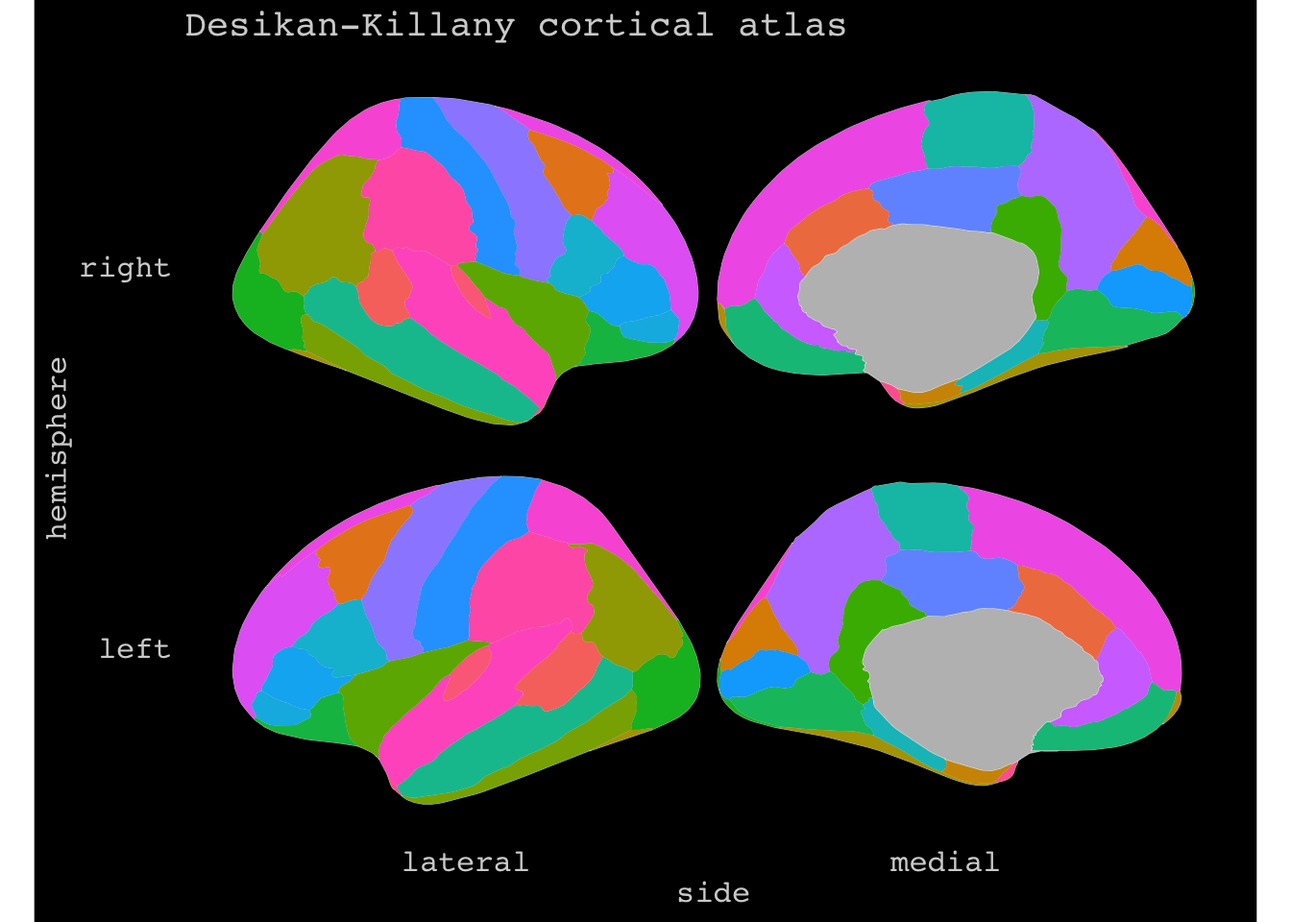
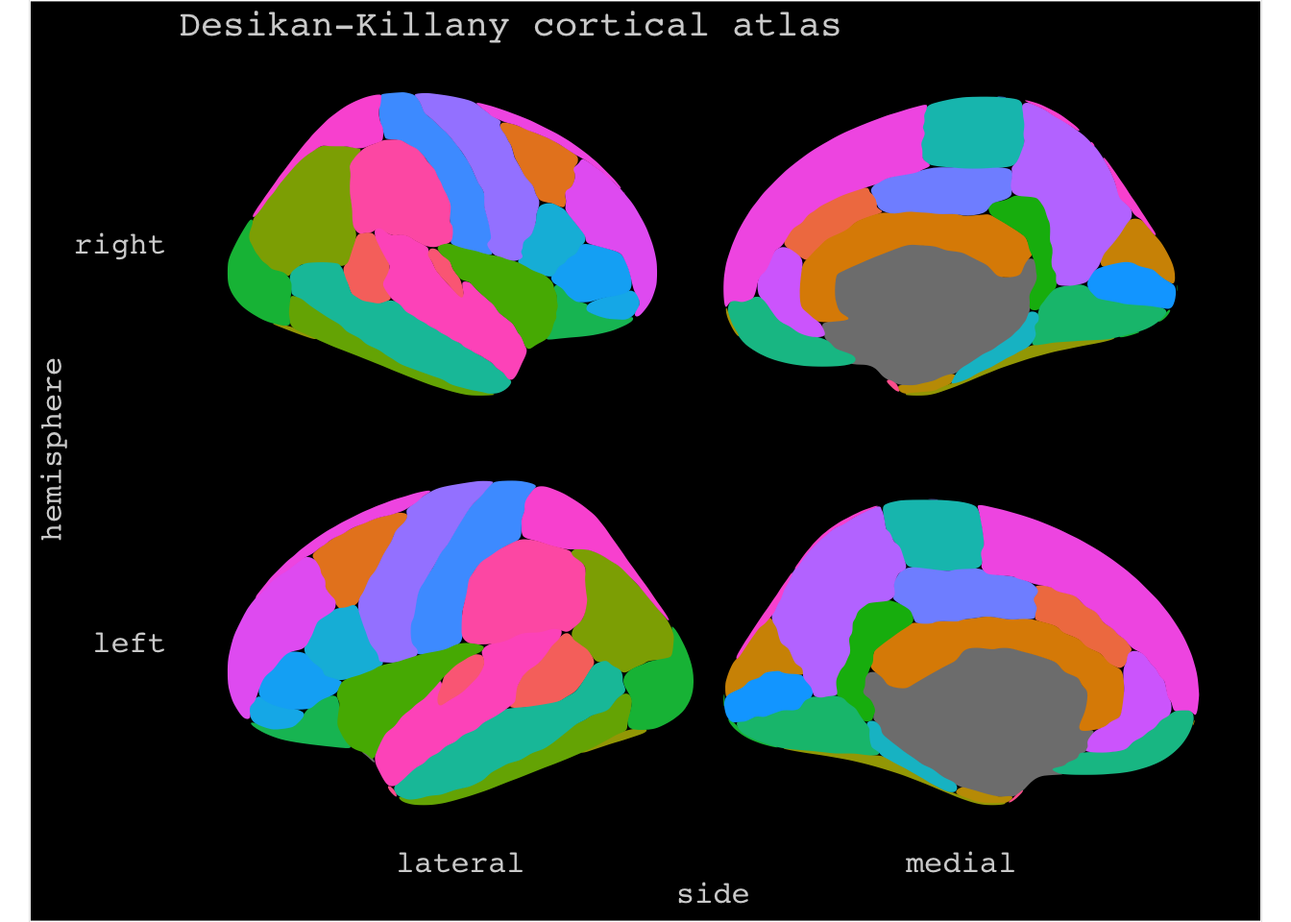
update ggseg posts with new arguments

diff --git a/content/blog/2018-08-24-introducing-the-ggseg-r-package-for-brain-segmentations.html b/content/blog/2018-08-24-introducing-the-ggseg-r-package-for-brain-segmentations.html
@@ -15,18 +15,27 @@ featured_image: '/blog/2018-08-24-introducing-the-ggseg-r-package-for-brain-segm
 
 
 <p><strong>Edit</strong>: Though posted only a week ago, we have discovered another R package called <code>ggBrain</code> which has slightly different functions than what our package has. Because of this, we have altered the name of our package to <code>ggseg</code> short for <code>ggsegmentation</code> which is a better description of what our package does.</p>
-<p>I’ve not written a post in a while. Mostly because of summer vacation, and also because I have been a little swamped at work. Fortunately, I got back to work with new gusto in August, and have something exciting to show you!</p>
-<p>A while a go, my co-worker Didac, approached me with an idea for creating the possibility to plot brain segmentations directly in R. I loved the idea, and went straight at it, though, overly complicated and the initial project I started is a little stalled.</p>
+<p>I’ve not written a post in a while. Mostly because of summer vacation, and also because I have been a little swamped at work.
+Fortunately, I got back to work with new gusto in August, and have something exciting to show you!</p>
+<p>A while a go, my co-worker Didac, approached me with an idea for creating the possibility to plot brain segmentations directly in R.
+I loved the idea, and went straight at it, though, overly complicated and the initial project I started is a little stalled.</p>
 <p>Before the summer, he showed me what he really intended, and it is brilliant! So, we worked a bit together, and have scambled together the first little package we have ever made.</p>
-<p>The <a href="https://github.com/LCBC-UiO/ggseg">ggseg</a> package is intended for those who need to easily plot results or overviews of segmentet data. In neuroimaging, we often run analyses that segment the brain into different areas, according to different types of classification atlases. We have, to begin with, focused on two atlases from the popular software <a href="https://surfer.nmr.mgh.harvard.edu/">Freesurfer</a>, the Desikan-Killany cortical atlas (dkt), and the subcortical segmentation atlas (aseg). These two segmentation atlases are automatically run on any structural T1-weighted MRI image run through Freesurfers <code>recon-all</code> command, and such is data many people have. It can give you, per MRI image, mean values of area and thickness for each region in the atlas, that you can use with your hearts delight for analyses.</p>
+<p>The <a href="https://github.com/LCBC-UiO/ggseg">ggseg</a> package is intended for those who need to easily plot results or overviews of segmentet data.
+In neuroimaging, we often run analyses that segment the brain into different regions, according to different types of classification atlases.
+We have, to begin with, focused on two atlases from the popular software <a href="https://surfer.nmr.mgh.harvard.edu/">Freesurfer</a>, the Desikan-Killany cortical atlas (dk), and the subcortical segmentation atlas (aseg).
+These two segmentation atlases are automatically run on any structural T1-weighted MRI image run through Freesurfers <code>recon-all</code> command, and such is data many people have.
+It can give you, per MRI image, mean values of region and thickness for each region in the atlas, that you can use with your hearts delight for analyses.</p>
 <p>But, once analysed, there is not particlarly easy way of plotting the results, and we couldn’t have that!</p>
 <p>So, after some laborious manual work in tracing the segments from the atlases into scalable vector graphics (svg), transforming it to GIS data, and then fortifying this in R for ggplot’ing, we finally have some good stuff.</p>
-<p>Now, this is the first time we are writing any type of package, or functions like this. I’m sure we can improve the code quite a lot, and we are <em>very</em> happy to receive any pull requests for improvements and to learn more. But for now, the functions work well, and we’d like to introduce it to you.</p>
-<p>This package is developed as part of our work in our lab <a href="www.oslobrains.no">The Center for Lifespan Changes in Brain and Cognition</a>, and is thus released on our lab-github. It is not a CRAN-package, but if we get some more assistance/experience we will considering releaseing it on CRAN at some point.</p>
+<p>Now, this is the first time we are writing any type of package, or functions like this. I’m sure we can improve the code quite a lot, and we are <em>very</em> happy to receive any pull requests for improvements and to learn more.
+But for now, the functions work well, and we’d like to introduce it to you.</p>
+<p>This package is developed as part of our work in our lab <a href="www.oslobrains.no">The Center for Lifespan Changes in Brain and Cognition</a>, and is thus released on our lab-github.
+It is not a CRAN-package, but if we get some more assistance/experience we will considering releaseing it on CRAN at some point.</p>
 <p>So, you can install this using devtools, and we recommend building the vignette also.</p>
 <pre class="r"><code>devtools::install_github(&quot;LCBC-UiO/ggseg&quot;, build_vignette=T)</code></pre>
 <p>Once installed, you can have a look through the vignette with <code>vignette(ggseg)</code>, but I’ll cover some basics here.</p>
-<p><code>ggseg</code> is made using <code>ggplot2</code>. Who doesn’t love ggplot. It is sleek and beautiful, and we wanted these plots to be compatible with ggplot functions, like <code>facet_wrap</code> and <code>theme</code>. Out-of-the box, calling ggseg directly will plot the dkt atlas.</p>
+<p><code>ggseg</code> is made using <code>ggplot2</code>. Who doesn’t love ggplot. It is sleek and beautiful, and we wanted these plots to be compatible with ggplot functions, like <code>facet_wrap</code> and <code>theme</code>.
+Out-of-the box, calling ggseg directly will plot the dk atlas.</p>
 <pre class="r"><code>library(tidyverse)
 library(ggseg)
 ggseg()</code></pre>
@@ -34,41 +43,50 @@ ggseg()</code></pre>
 <p>You can also choose to stack the hemispheres ontop of each other, if that works better for you.</p>
 <pre class="r"><code>ggseg(position=&quot;stacked&quot;)</code></pre>
 <p><img src="/blog/2018-08-24-introducing-the-ggseg-r-package-for-brain-segmentations_files/figure-html/unnamed-chunk-3-1.png" width="672" /></p>
-<p>Of course, this grey thing isn’t particularly fun to look at, so we can do some colourings. The atlases all have a variable called <code>area</code>, which will colour different sections in meaningful ways. You do this with ggplot <code>aes</code> mapping.</p>
-<pre class="r"><code>ggseg(mapping=aes(fill=area), position=&quot;stacked&quot;)</code></pre>
+<p>Of course, this grey thing isn’t particularly fun to look at, so we can do some colourings.
+The atlases all have a variable called <code>region</code>, which will colour different sections in meaningful ways.
+You do this with ggplot <code>aes</code> mapping.</p>
+<pre class="r"><code>ggseg(mapping=aes(fill=region), position=&quot;stacked&quot;)</code></pre>
 <p><img src="/blog/2018-08-24-introducing-the-ggseg-r-package-for-brain-segmentations_files/figure-html/unnamed-chunk-4-1.png" width="672" /></p>
 <p>But there are so many labels! We can’t fit them all for this atlas. We can turn them off!.</p>
-<pre class="r"><code>ggseg(mapping=aes(fill=area), position=&quot;stacked&quot;, show.legend = F) +
+<pre class="r"><code>ggseg(mapping=aes(fill=region), position=&quot;stacked&quot;, show.legend = F) +
   ggtitle(&quot;Desikan-Killany cortical atlas&quot;)</code></pre>
 <p><img src="/blog/2018-08-24-introducing-the-ggseg-r-package-for-brain-segmentations_files/figure-html/featured-1.png" width="672" /></p>
 <p>The package currently has three atlases available. The default Desikan-Killany cortical atlas as shown above, and the Automatic subcortical segmentation (aseg), and the Yeo 2011 7 resting-state networks.</p>
-<pre class="r"><code>ggseg(atlas=&quot;aseg&quot;,mapping=aes(fill=area)) +
+<pre class="r"><code>ggseg(atlas=aseg,mapping=aes(fill=region)) +
   ggtitle(&quot;Automatic subcortical segmentation&quot;)</code></pre>
 <p><img src="/blog/2018-08-24-introducing-the-ggseg-r-package-for-brain-segmentations_files/figure-html/unnamed-chunk-5-1.png" width="672" /></p>
-<pre class="r"><code>ggseg(atlas=&quot;yeo7&quot;,position=&quot;stacked&quot;,mapping=aes(fill=area),) +
+<pre class="r"><code># remotes::install_github(&quot;LCBC-UiO/ggsegYeo2011&quot;)
+library(ggsegYeo2011)
+ggseg(atlas=yeo7, position=&quot;stacked&quot;, mapping=aes(fill=region),) +
   ggtitle(&quot;Yeo 7 resting-state networks&quot;)</code></pre>
 <p><img src="/blog/2018-08-24-introducing-the-ggseg-r-package-for-brain-segmentations_files/figure-html/unnamed-chunk-5-2.png" width="672" /></p>
-<p>We are working on adding the Yeo 2011 17 resting-state networks, in addition to a sagittal view of the aseg atlas. We work on that when we need other more “relaxing” tasks than responding to reviewers every whims.</p>
-<p>Since this is a ggplot-based function, there are lots of ways you can manipulate how it looks. For instance by using different themes. The package comes with three themes: <code>theme_brain</code>, <code>theme_darkbrain</code>, and <code>theme_custombrain</code>, the latter is really just a simple convenience theme for those who don’t want to or know how to customize simple things like the plot background and text colour.</p>
-<pre class="r"><code>ggseg(mapping=aes(fill=area), position=&quot;stacked&quot;,show.legend = F) +
+<p>We are working on adding the Yeo 2011 17 resting-state networks, in addition to a sagittal view of the aseg atlas.
+We work on that when we need other more “relaxing” tasks than responding to reviewers every whims.</p>
+<p>Since this is a ggplot-based function, there are lots of ways you can manipulate how it looks.
+For instance by using different themes. The package comes with three themes:
+<code>theme_brain</code>, <code>theme_darkbrain</code>, and <code>theme_custombrain</code>, the latter is really just a simple convenience theme for those who don’t want to or know how to customize simple things like the plot background and text colour.</p>
+<pre class="r"><code>ggseg(mapping=aes(fill=region), position=&quot;stacked&quot;,show.legend = F) +
   ggtitle(&quot;Desikan-Killany cortical atlas&quot;) +
   theme_darkbrain()</code></pre>
 <p><img src="/blog/2018-08-24-introducing-the-ggseg-r-package-for-brain-segmentations_files/figure-html/unnamed-chunk-6-1.png" width="672" /></p>
 <p>There are several extra options you can add, like increasing the size of the contouring line and its colour</p>
-<pre class="r"><code>ggseg(mapping=aes(fill=area), position=&quot;stacked&quot;,
+<pre class="r"><code>ggseg(mapping=aes(fill=region), position=&quot;stacked&quot;,
         colour=&quot;black&quot;,size=.8,show.legend = F) +
   ggtitle(&quot;Desikan-Killany cortical atlas&quot;)</code></pre>
 <p><img src="/blog/2018-08-24-introducing-the-ggseg-r-package-for-brain-segmentations_files/figure-html/unnamed-chunk-7-1.png" width="672" /></p>
-<p>wowsa, that’s a bit too many labels. But It helps you get oriented. Now, in most cases, we think people will use this to plot some results. Like p-values, or estimated means. To do this, you can provide the function with some data. Importantly, the data must include some variables that will match the data to the atlas data.frame for merging.</p>
-<p>Lets for instance say you have found that the thickness of the insula and superior frontal cortex increase with age, and you want to plot the estimated means highlighting those two areas only.</p>
-<pre class="r"><code>results = data.frame(cbind(area=c(&quot;superior frontal&quot;,&quot;insula&quot;),em=c(2.4,3.3)),
+<p>wowsa, that’s a bit too many labels. But It helps you get oriented.
+Now, in most cases, we think people will use this to plot some results. Like p-values, or estimated means.
+To do this, you can provide the function with some data. Importantly, the data must include some variables that will match the data to the atlas data.frame for merging.</p>
+<p>Lets for instance say you have found that the thickness of the insula and superior frontal cortex increase with age, and you want to plot the estimated means highlighting those two regions only.</p>
+<pre class="r"><code>results = data.frame(cbind(region=c(&quot;superior frontal&quot;,&quot;insula&quot;),em=c(2.4,3.3)),
                      stringsAsFactors=F)
 
 results %&gt;% 
   ggseg(mapping=aes(fill=as.numeric(em)), position=&quot;stacked&quot;) </code></pre>
 <p><img src="/blog/2018-08-24-introducing-the-ggseg-r-package-for-brain-segmentations_files/figure-html/unnamed-chunk-8-1.png" width="672" /></p>
 <p>Neat-o. But maybe the results only pertained to the right insula, and left superior frontal? Just add a <code>hemi</code> variable indicating which hemisphere the results belong to.</p>
-<pre class="r"><code>results = data.frame(cbind(area=c(&quot;superior frontal&quot;,&quot;insula&quot;),
+<pre class="r"><code>results = data.frame(cbind(region=c(&quot;superior frontal&quot;,&quot;insula&quot;),
                            em=c(2.4,3.3),
                            hemi=c(&quot;left&quot;,&quot;right&quot;)),
                      stringsAsFactors=F)
@@ -77,14 +95,17 @@ results %&gt;%
   ggseg(mapping=aes(fill=as.numeric(em)), position=&quot;stacked&quot;) </code></pre>
 <p><img src="/blog/2018-08-24-introducing-the-ggseg-r-package-for-brain-segmentations_files/figure-html/unnamed-chunk-9-1.png" width="672" /></p>
 <p>If you keep your data in tall/long format, as ggplot likes it, you can also plot results from different groups using facets.</p>
-<pre class="r"><code>results = data.frame(cbind(area=c(&quot;superior frontal&quot;,&quot;insula&quot;, &quot;par orbitalis&quot;,&quot;pre central&quot;),
-                           em=c(2.4,3.3,1.2,2.6),
-                           hemi=c(&quot;left&quot;,&quot;right&quot;,&quot;right&quot;,&quot;right&quot;),
-                           AgeGroup = c(rep(&quot;Young&quot;,2),rep(&quot;Old&quot;,2))),
-                     stringsAsFactors=F)
+<pre class="r"><code>results = data.frame(region=c(&quot;superior frontal&quot;,&quot;insula&quot;, &quot;pars orbitalis&quot;,&quot;precentral&quot;),
+                     em=c(2.4,3.3,1.2,2.6),
+                     hemi=c(&quot;left&quot;,&quot;right&quot;,&quot;right&quot;,&quot;right&quot;),
+                     AgeGroup = c(rep(&quot;Young&quot;,2),rep(&quot;Old&quot;,2)),
+                     stringsAsFactors=F) %&gt;% 
+  group_by(AgeGroup)
 
 results %&gt;% 
-  ggseg(mapping=aes(fill=as.numeric(em)), position=&quot;stacked&quot;) +
+  ggseg(mapping=aes(fill=as.numeric(em)), position=&quot;stacked&quot;, colour=&quot;black&quot;) +
   facet_wrap(~AgeGroup,ncol=1)</code></pre>
 <p><img src="/blog/2018-08-24-introducing-the-ggseg-r-package-for-brain-segmentations_files/figure-html/unnamed-chunk-10-1.png" width="672" /></p>
-<p>That’s all for now. Or, there are more options, but that’s what I’ll be going through today. As mentioned, we are very new at making packages, and I’m sure there are many ways to make this package more efficient. Drop us a line or pull request if you feel like contributing!</p>
+<p>That’s all for now. Or, there are more options, but that’s what I’ll be going through today.
+As mentioned, we are very new at making packages, and I’m sure there are many ways to make this package more efficient.
+Drop us a line or pull request if you feel like contributing!</p>

diff --git a/public/blog/introducing-the-ggseg-r-package-for-brain-segmentations/index.html b/public/blog/introducing-the-ggseg-r-package-for-brain-segmentations/index.html
@@ -203,18 +203,27 @@ ga('send', 'pageview');
 
 
 <p><strong>Edit</strong>: Though posted only a week ago, we have discovered another R package called <code>ggBrain</code> which has slightly different functions than what our package has. Because of this, we have altered the name of our package to <code>ggseg</code> short for <code>ggsegmentation</code> which is a better description of what our package does.</p>
-<p>I’ve not written a post in a while. Mostly because of summer vacation, and also because I have been a little swamped at work. Fortunately, I got back to work with new gusto in August, and have something exciting to show you!</p>
-<p>A while a go, my co-worker Didac, approached me with an idea for creating the possibility to plot brain segmentations directly in R. I loved the idea, and went straight at it, though, overly complicated and the initial project I started is a little stalled.</p>
+<p>I’ve not written a post in a while. Mostly because of summer vacation, and also because I have been a little swamped at work.
+Fortunately, I got back to work with new gusto in August, and have something exciting to show you!</p>
+<p>A while a go, my co-worker Didac, approached me with an idea for creating the possibility to plot brain segmentations directly in R.
+I loved the idea, and went straight at it, though, overly complicated and the initial project I started is a little stalled.</p>
 <p>Before the summer, he showed me what he really intended, and it is brilliant! So, we worked a bit together, and have scambled together the first little package we have ever made.</p>
-<p>The <a href="https://github.com/LCBC-UiO/ggseg">ggseg</a> package is intended for those who need to easily plot results or overviews of segmentet data. In neuroimaging, we often run analyses that segment the brain into different areas, according to different types of classification atlases. We have, to begin with, focused on two atlases from the popular software <a href="https://surfer.nmr.mgh.harvard.edu/">Freesurfer</a>, the Desikan-Killany cortical atlas (dkt), and the subcortical segmentation atlas (aseg). These two segmentation atlases are automatically run on any structural T1-weighted MRI image run through Freesurfers <code>recon-all</code> command, and such is data many people have. It can give you, per MRI image, mean values of area and thickness for each region in the atlas, that you can use with your hearts delight for analyses.</p>
+<p>The <a href="https://github.com/LCBC-UiO/ggseg">ggseg</a> package is intended for those who need to easily plot results or overviews of segmentet data.
+In neuroimaging, we often run analyses that segment the brain into different regions, according to different types of classification atlases.
+We have, to begin with, focused on two atlases from the popular software <a href="https://surfer.nmr.mgh.harvard.edu/">Freesurfer</a>, the Desikan-Killany cortical atlas (dk), and the subcortical segmentation atlas (aseg).
+These two segmentation atlases are automatically run on any structural T1-weighted MRI image run through Freesurfers <code>recon-all</code> command, and such is data many people have.
+It can give you, per MRI image, mean values of region and thickness for each region in the atlas, that you can use with your hearts delight for analyses.</p>
 <p>But, once analysed, there is not particlarly easy way of plotting the results, and we couldn’t have that!</p>
 <p>So, after some laborious manual work in tracing the segments from the atlases into scalable vector graphics (svg), transforming it to GIS data, and then fortifying this in R for ggplot’ing, we finally have some good stuff.</p>
-<p>Now, this is the first time we are writing any type of package, or functions like this. I’m sure we can improve the code quite a lot, and we are <em>very</em> happy to receive any pull requests for improvements and to learn more. But for now, the functions work well, and we’d like to introduce it to you.</p>
-<p>This package is developed as part of our work in our lab <a href="www.oslobrains.no">The Center for Lifespan Changes in Brain and Cognition</a>, and is thus released on our lab-github. It is not a CRAN-package, but if we get some more assistance/experience we will considering releaseing it on CRAN at some point.</p>
+<p>Now, this is the first time we are writing any type of package, or functions like this. I’m sure we can improve the code quite a lot, and we are <em>very</em> happy to receive any pull requests for improvements and to learn more.
+But for now, the functions work well, and we’d like to introduce it to you.</p>
+<p>This package is developed as part of our work in our lab <a href="www.oslobrains.no">The Center for Lifespan Changes in Brain and Cognition</a>, and is thus released on our lab-github.
+It is not a CRAN-package, but if we get some more assistance/experience we will considering releaseing it on CRAN at some point.</p>
 <p>So, you can install this using devtools, and we recommend building the vignette also.</p>
 <pre class="r"><code>devtools::install_github(&quot;LCBC-UiO/ggseg&quot;, build_vignette=T)</code></pre>
 <p>Once installed, you can have a look through the vignette with <code>vignette(ggseg)</code>, but I’ll cover some basics here.</p>
-<p><code>ggseg</code> is made using <code>ggplot2</code>. Who doesn’t love ggplot. It is sleek and beautiful, and we wanted these plots to be compatible with ggplot functions, like <code>facet_wrap</code> and <code>theme</code>. Out-of-the box, calling ggseg directly will plot the dkt atlas.</p>
+<p><code>ggseg</code> is made using <code>ggplot2</code>. Who doesn’t love ggplot. It is sleek and beautiful, and we wanted these plots to be compatible with ggplot functions, like <code>facet_wrap</code> and <code>theme</code>.
+Out-of-the box, calling ggseg directly will plot the dk atlas.</p>
 <pre class="r"><code>library(tidyverse)
 library(ggseg)
 ggseg()</code></pre>
@@ -222,41 +231,50 @@ ggseg()</code></pre>
 <p>You can also choose to stack the hemispheres ontop of each other, if that works better for you.</p>
 <pre class="r"><code>ggseg(position=&quot;stacked&quot;)</code></pre>
 <p><img src="/blog/2018-08-24-introducing-the-ggseg-r-package-for-brain-segmentations_files/figure-html/unnamed-chunk-3-1.png" width="672" /></p>
-<p>Of course, this grey thing isn’t particularly fun to look at, so we can do some colourings. The atlases all have a variable called <code>area</code>, which will colour different sections in meaningful ways. You do this with ggplot <code>aes</code> mapping.</p>
-<pre class="r"><code>ggseg(mapping=aes(fill=area), position=&quot;stacked&quot;)</code></pre>
+<p>Of course, this grey thing isn’t particularly fun to look at, so we can do some colourings.
+The atlases all have a variable called <code>region</code>, which will colour different sections in meaningful ways.
+You do this with ggplot <code>aes</code> mapping.</p>
+<pre class="r"><code>ggseg(mapping=aes(fill=region), position=&quot;stacked&quot;)</code></pre>
 <p><img src="/blog/2018-08-24-introducing-the-ggseg-r-package-for-brain-segmentations_files/figure-html/unnamed-chunk-4-1.png" width="672" /></p>
 <p>But there are so many labels! We can’t fit them all for this atlas. We can turn them off!.</p>
-<pre class="r"><code>ggseg(mapping=aes(fill=area), position=&quot;stacked&quot;, show.legend = F) +
+<pre class="r"><code>ggseg(mapping=aes(fill=region), position=&quot;stacked&quot;, show.legend = F) +
   ggtitle(&quot;Desikan-Killany cortical atlas&quot;)</code></pre>
 <p><img src="/blog/2018-08-24-introducing-the-ggseg-r-package-for-brain-segmentations_files/figure-html/featured-1.png" width="672" /></p>
 <p>The package currently has three atlases available. The default Desikan-Killany cortical atlas as shown above, and the Automatic subcortical segmentation (aseg), and the Yeo 2011 7 resting-state networks.</p>
-<pre class="r"><code>ggseg(atlas=&quot;aseg&quot;,mapping=aes(fill=area)) +
+<pre class="r"><code>ggseg(atlas=aseg,mapping=aes(fill=region)) +
   ggtitle(&quot;Automatic subcortical segmentation&quot;)</code></pre>
 <p><img src="/blog/2018-08-24-introducing-the-ggseg-r-package-for-brain-segmentations_files/figure-html/unnamed-chunk-5-1.png" width="672" /></p>
-<pre class="r"><code>ggseg(atlas=&quot;yeo7&quot;,position=&quot;stacked&quot;,mapping=aes(fill=area),) +
+<pre class="r"><code># remotes::install_github(&quot;LCBC-UiO/ggsegYeo2011&quot;)
+library(ggsegYeo2011)
+ggseg(atlas=yeo7, position=&quot;stacked&quot;, mapping=aes(fill=region),) +
   ggtitle(&quot;Yeo 7 resting-state networks&quot;)</code></pre>
 <p><img src="/blog/2018-08-24-introducing-the-ggseg-r-package-for-brain-segmentations_files/figure-html/unnamed-chunk-5-2.png" width="672" /></p>
-<p>We are working on adding the Yeo 2011 17 resting-state networks, in addition to a sagittal view of the aseg atlas. We work on that when we need other more “relaxing” tasks than responding to reviewers every whims.</p>
-<p>Since this is a ggplot-based function, there are lots of ways you can manipulate how it looks. For instance by using different themes. The package comes with three themes: <code>theme_brain</code>, <code>theme_darkbrain</code>, and <code>theme_custombrain</code>, the latter is really just a simple convenience theme for those who don’t want to or know how to customize simple things like the plot background and text colour.</p>
-<pre class="r"><code>ggseg(mapping=aes(fill=area), position=&quot;stacked&quot;,show.legend = F) +
+<p>We are working on adding the Yeo 2011 17 resting-state networks, in addition to a sagittal view of the aseg atlas.
+We work on that when we need other more “relaxing” tasks than responding to reviewers every whims.</p>
+<p>Since this is a ggplot-based function, there are lots of ways you can manipulate how it looks.
+For instance by using different themes. The package comes with three themes:
+<code>theme_brain</code>, <code>theme_darkbrain</code>, and <code>theme_custombrain</code>, the latter is really just a simple convenience theme for those who don’t want to or know how to customize simple things like the plot background and text colour.</p>
+<pre class="r"><code>ggseg(mapping=aes(fill=region), position=&quot;stacked&quot;,show.legend = F) +
   ggtitle(&quot;Desikan-Killany cortical atlas&quot;) +
   theme_darkbrain()</code></pre>
 <p><img src="/blog/2018-08-24-introducing-the-ggseg-r-package-for-brain-segmentations_files/figure-html/unnamed-chunk-6-1.png" width="672" /></p>
 <p>There are several extra options you can add, like increasing the size of the contouring line and its colour</p>
-<pre class="r"><code>ggseg(mapping=aes(fill=area), position=&quot;stacked&quot;,
+<pre class="r"><code>ggseg(mapping=aes(fill=region), position=&quot;stacked&quot;,
         colour=&quot;black&quot;,size=.8,show.legend = F) +
   ggtitle(&quot;Desikan-Killany cortical atlas&quot;)</code></pre>
 <p><img src="/blog/2018-08-24-introducing-the-ggseg-r-package-for-brain-segmentations_files/figure-html/unnamed-chunk-7-1.png" width="672" /></p>
-<p>wowsa, that’s a bit too many labels. But It helps you get oriented. Now, in most cases, we think people will use this to plot some results. Like p-values, or estimated means. To do this, you can provide the function with some data. Importantly, the data must include some variables that will match the data to the atlas data.frame for merging.</p>
-<p>Lets for instance say you have found that the thickness of the insula and superior frontal cortex increase with age, and you want to plot the estimated means highlighting those two areas only.</p>
-<pre class="r"><code>results = data.frame(cbind(area=c(&quot;superior frontal&quot;,&quot;insula&quot;),em=c(2.4,3.3)),
+<p>wowsa, that’s a bit too many labels. But It helps you get oriented.
+Now, in most cases, we think people will use this to plot some results. Like p-values, or estimated means.
+To do this, you can provide the function with some data. Importantly, the data must include some variables that will match the data to the atlas data.frame for merging.</p>
+<p>Lets for instance say you have found that the thickness of the insula and superior frontal cortex increase with age, and you want to plot the estimated means highlighting those two regions only.</p>
+<pre class="r"><code>results = data.frame(cbind(region=c(&quot;superior frontal&quot;,&quot;insula&quot;),em=c(2.4,3.3)),
                      stringsAsFactors=F)
 
 results %&gt;% 
   ggseg(mapping=aes(fill=as.numeric(em)), position=&quot;stacked&quot;) </code></pre>
 <p><img src="/blog/2018-08-24-introducing-the-ggseg-r-package-for-brain-segmentations_files/figure-html/unnamed-chunk-8-1.png" width="672" /></p>
 <p>Neat-o. But maybe the results only pertained to the right insula, and left superior frontal? Just add a <code>hemi</code> variable indicating which hemisphere the results belong to.</p>
-<pre class="r"><code>results = data.frame(cbind(area=c(&quot;superior frontal&quot;,&quot;insula&quot;),
+<pre class="r"><code>results = data.frame(cbind(region=c(&quot;superior frontal&quot;,&quot;insula&quot;),
                            em=c(2.4,3.3),
                            hemi=c(&quot;left&quot;,&quot;right&quot;)),
                      stringsAsFactors=F)
@@ -265,17 +283,20 @@ results %&gt;%
   ggseg(mapping=aes(fill=as.numeric(em)), position=&quot;stacked&quot;) </code></pre>
 <p><img src="/blog/2018-08-24-introducing-the-ggseg-r-package-for-brain-segmentations_files/figure-html/unnamed-chunk-9-1.png" width="672" /></p>
 <p>If you keep your data in tall/long format, as ggplot likes it, you can also plot results from different groups using facets.</p>
-<pre class="r"><code>results = data.frame(cbind(area=c(&quot;superior frontal&quot;,&quot;insula&quot;, &quot;par orbitalis&quot;,&quot;pre central&quot;),
-                           em=c(2.4,3.3,1.2,2.6),
-                           hemi=c(&quot;left&quot;,&quot;right&quot;,&quot;right&quot;,&quot;right&quot;),
-                           AgeGroup = c(rep(&quot;Young&quot;,2),rep(&quot;Old&quot;,2))),
-                     stringsAsFactors=F)
+<pre class="r"><code>results = data.frame(region=c(&quot;superior frontal&quot;,&quot;insula&quot;, &quot;pars orbitalis&quot;,&quot;precentral&quot;),
+                     em=c(2.4,3.3,1.2,2.6),
+                     hemi=c(&quot;left&quot;,&quot;right&quot;,&quot;right&quot;,&quot;right&quot;),
+                     AgeGroup = c(rep(&quot;Young&quot;,2),rep(&quot;Old&quot;,2)),
+                     stringsAsFactors=F) %&gt;% 
+  group_by(AgeGroup)
 
 results %&gt;% 
-  ggseg(mapping=aes(fill=as.numeric(em)), position=&quot;stacked&quot;) +
+  ggseg(mapping=aes(fill=as.numeric(em)), position=&quot;stacked&quot;, colour=&quot;black&quot;) +
   facet_wrap(~AgeGroup,ncol=1)</code></pre>
 <p><img src="/blog/2018-08-24-introducing-the-ggseg-r-package-for-brain-segmentations_files/figure-html/unnamed-chunk-10-1.png" width="672" /></p>
-<p>That’s all for now. Or, there are more options, but that’s what I’ll be going through today. As mentioned, we are very new at making packages, and I’m sure there are many ways to make this package more efficient. Drop us a line or pull request if you feel like contributing!</p>
+<p>That’s all for now. Or, there are more options, but that’s what I’ll be going through today.
+As mentioned, we are very new at making packages, and I’m sure there are many ways to make this package more efficient.
+Drop us a line or pull request if you feel like contributing!</p>
 
     </div>
     

diff --git a/content/blog/2018-10-01-get-the-brain-animated.html b/content/blog/2018-10-01-get-the-brain-animated.html
@@ -17,27 +17,29 @@ featured_image: '/blog/2018-10-01-get-the-brain-animated_files/figure-html/featu
 <p>In all of this, I learned so much about creating packages, and ended up making quite a major alteration to the base-functions of the package. I had not completely understood the use and the ellipsis (<code>...</code>) and as such had not used it correctly. Once I started understanding it, we could make the package working closer to what a standard ggplot package would work!</p>
 <p>The package vignettes are update on the new usage, which mainly affects how you may supply data for facetting. Just have a look at <code>vignette(&quot;ggseg&quot;)</code> and <code>vignette(&quot;externalData&quot;)</code> for a more up-to-date understanding of how the data should look.</p>
 <p>And this post will use the technique necessary for facetting, just for making animations with the <a href="https://github.com/thomasp85/gganimate">gganimate</a> package instead. This package is so clever, and I am in complete awe of Thomas’ brilliance in making it. Especially the new development version, which has altered the way to use the package that falls completely in-line with the rest of the ggplot-idea.</p>
-<p>Let’s fabricate some data to work with. I want to plot the Desikan-Killany atlas, with information for mean values of thickness across different ages. Since I’m completely making all this data up, I’ll just start with the <code>dkt</code> data.frame that comes with the package, grabs its unique instances of area and hemisphere (which gives me every area in the dkt atlas), and start making up some cortical thickness values per age.</p>
+<p>Let’s fabricate some data to work with. I want to plot the Desikan-Killany atlas, with information for mean values of thickness across different ages. Since I’m completely making all this data up, I’ll just start with the <code>dk</code> data.frame that comes with the package, grabs its unique instances of region and hemisphere (which gives me every region in the dk atlas), and start making up some cortical thickness values per age.</p>
 <p>Grab the unique polygons</p>
-<pre class="r"><code>base_atlas = dkt %&gt;% 
-  select(area,hemi) %&gt;% 
+<pre class="r"><code>base_atlas = dk %&gt;% 
+  select(region, hemi) %&gt;% 
   distinct() %&gt;% 
   na.omit()
 
 base_atlas %&gt;% head(5)</code></pre>
-<pre><code>##                     area hemi
-## 1      superior temporal left
-## 2            pre central left
-## 3           post central left
-## 4 rostral middle frontal left
-## 5                 insula left</code></pre>
+<pre><code>## # A tibble: 5 x 2
+##   region                hemi 
+##   &lt;chr&gt;                 &lt;chr&gt;
+## 1 bankssts              left 
+## 2 caudal middle frontal left 
+## 3 fusiform              left 
+## 4 inferior parietal     left 
+## 5 inferior temporal     left</code></pre>
 <p>Make up some cortical thickness values given an age</p>
 <pre class="r"><code>new_data = base_atlas %&gt;% 
   mutate(Age=7,
          thickness = sample(seq(4,5,by=.001), nrow(.)))</code></pre>
 <p>Lets plot it to have a looksie</p>
 <pre class="r"><code>new_data %&gt;% 
-  ggseg(mapping=aes(fill=thickness), position=&quot;stacked&quot;, colour=&quot;darkgrey&quot;, size=.1) +
+  ggseg(mapping=aes(fill=thickness), position=&quot;stacked&quot;, colour=&quot;darkgrey&quot;) +
   scale_fill_gradientn(colours=c(&quot;dodgerblue4&quot;,&quot;light blue&quot;,&quot;firebrick&quot;,&quot;goldenrod&quot;))</code></pre>
 <p><img src="/blog/2018-10-01-get-the-brain-animated_files/figure-html/unnamed-chunk-3-1.png" width="672" /></p>
 <p>ok, so that looks pretty decent. Notice that I’ve included some extra aestetics to make it look nice. I’ve added <code>colour</code> to provide definition between the cortical parcellations, and made sure the <code>size</code> of this line is thin.</p>
@@ -55,48 +57,48 @@ full_data = lapply(full_data,
 
 # Bind the data together.
 full_data = full_data %&gt;% bind_rows()</code></pre>
-<p>Now we should have a data frame with values for each area and hemisphere across the ages 5-40.
+<p>Now we should have a data frame with values for each region and hemisphere across the ages 5-40.
 Let’s have a look at how it looks when we facet it.</p>
 <pre class="r"><code>full_data %&gt;% 
-  ggseg(mapping=aes(fill=thickness), position=&quot;stacked&quot;, colour=&quot;darkgrey&quot;, size=.1) +
+  ggseg(mapping=aes(fill=thickness), position=&quot;stacked&quot;, colour=&quot;darkgrey&quot;) +
   scale_fill_gradientn(colours=c(&quot;dodgerblue4&quot;,&quot;light blue&quot;,&quot;firebrick&quot;,&quot;goldenrod&quot;)) +
   facet_wrap(~Age)</code></pre>
 <p><img src="/blog/2018-10-01-get-the-brain-animated_files/figure-html/unnamed-chunk-5-1.png" width="672" /></p>
 <p>Hm, there is something a little off here. The medial wall is omitted from all facets, and is placed in it’s own facet!
 This is expected behaviour as of the new <code>ggseg</code> version.</p>
 <p>If you want to facet, you’ll need to make sure each facet includes information for <em>all regions</em> even if these regions don’t have any aestetics value (in this case a thickness value we are plotting as fill).</p>
-<p>To manage this, we need to go back a step when we made the data.frame, and merge our fabricated data with the entire <code>dkt</code> atlas.</p>
+<p>To manage this, we need to go back a step when we made the data.frame, and merge our fabricated data with the entire <code>dk</code> atlas.</p>
 <pre class="r"><code># Make a list of all the age groups
 full_data = sapply(seq(5,40,by=5), list)
 names(full_data) = seq(5,40,by=5)
 
-# apply through the list to fabricate data per age, and add dkt atlas
+# apply through the list to fabricate data per age, and add dk atlas
 full_data = lapply(full_data, 
        function(x)  
          base_atlas %&gt;% 
          mutate(thickness = sample(seq(4,5,by=.001), nrow(.))) %&gt;% 
-         full_join(dkt) %&gt;% 
+         full_join(dk) %&gt;% 
          mutate(Age=x[1])
          )</code></pre>
-<pre><code>## Joining, by = c(&quot;area&quot;, &quot;hemi&quot;)
-## Joining, by = c(&quot;area&quot;, &quot;hemi&quot;)
-## Joining, by = c(&quot;area&quot;, &quot;hemi&quot;)
-## Joining, by = c(&quot;area&quot;, &quot;hemi&quot;)
-## Joining, by = c(&quot;area&quot;, &quot;hemi&quot;)
-## Joining, by = c(&quot;area&quot;, &quot;hemi&quot;)
-## Joining, by = c(&quot;area&quot;, &quot;hemi&quot;)
-## Joining, by = c(&quot;area&quot;, &quot;hemi&quot;)</code></pre>
+<pre><code>## Joining, by = c(&quot;region&quot;, &quot;hemi&quot;)
+## Joining, by = c(&quot;region&quot;, &quot;hemi&quot;)
+## Joining, by = c(&quot;region&quot;, &quot;hemi&quot;)
+## Joining, by = c(&quot;region&quot;, &quot;hemi&quot;)
+## Joining, by = c(&quot;region&quot;, &quot;hemi&quot;)
+## Joining, by = c(&quot;region&quot;, &quot;hemi&quot;)
+## Joining, by = c(&quot;region&quot;, &quot;hemi&quot;)
+## Joining, by = c(&quot;region&quot;, &quot;hemi&quot;)</code></pre>
 <pre class="r"><code># Bind the data together.
 full_data = full_data %&gt;% bind_rows()</code></pre>
-<p>You see how we’ve been informed that the data have been joined by <code>hemi</code> and <code>area</code>, which is exactly what we want. Let’s see what it looks like now.</p>
+<p>You see how we’ve been informed that the data have been joined by <code>hemi</code> and <code>region</code>, which is exactly what we want. Let’s see what it looks like now.</p>
 <pre class="r"><code>full_data %&gt;% 
-  ggseg(mapping=aes(fill=thickness), position=&quot;stacked&quot;, colour=&quot;darkgrey&quot;, size=.1) +
+  ggseg(mapping=aes(fill=thickness), position=&quot;stacked&quot;, colour=&quot;darkgrey&quot;) +
   scale_fill_gradientn(colours=c(&quot;dodgerblue4&quot;,&quot;light blue&quot;,&quot;firebrick&quot;,&quot;goldenrod&quot;)) +
   facet_wrap(~Age)</code></pre>
 <p><img src="/blog/2018-10-01-get-the-brain-animated_files/figure-html/unnamed-chunk-7-1.png" width="672" /></p>
-<p>Even more crazy! But again, this is expected behaviour. You see, we have supplied an entire atlas of information to ggseg, which again tries to mege it with (in this case) the dkt atlas. That makes this odd behaviour.</p>
+<p>Even more crazy! But again, this is expected behaviour. You see, we have supplied an entire atlas of information to ggseg, which again tries to mege it with (in this case) the dk atlas. That makes this odd behaviour.</p>
 <p>To plot this as we want, we need to tell <code>ggseg</code> that we are supplying a new <code>atlas</code> <strong>not</strong> new data.</p>
-<pre class="r"><code>ggseg(atlas=full_data, mapping=aes(fill=thickness), position=&quot;stacked&quot;, colour=&quot;darkgrey&quot;, size=.1) +
+<pre class="r"><code>ggseg(atlas=full_data, mapping=aes(fill=thickness), position=&quot;stacked&quot;, colour=&quot;darkgrey&quot;) +
   scale_fill_gradientn(colours=c(&quot;dodgerblue4&quot;,&quot;light blue&quot;,&quot;firebrick&quot;,&quot;goldenrod&quot;)) +
   facet_wrap(~Age)</code></pre>
 <p><img src="/blog/2018-10-01-get-the-brain-animated_files/figure-html/unnamed-chunk-8-1.png" width="672" /></p>
@@ -107,14 +109,19 @@ full_data = full_data %&gt;% bind_rows()</code></pre>
 <pre class="r"><code>library(gganimate)
 library(transformr)
 
-t = ggseg(atlas=full_data, mapping=aes(fill=thickness), position=&quot;stacked&quot;, colour=&quot;darkgrey&quot;, size=.1) +
-  scale_fill_gradientn(colours=c(&quot;dodgerblue4&quot;,&quot;light blue&quot;,&quot;firebrick&quot;,&quot;goldenrod&quot;)) +
+t = ggseg(atlas=full_data, 
+          mapping=aes(fill=thickness), 
+          position=&quot;stacked&quot;, colour=&quot;darkgrey&quot;) +
+  scale_fill_gradientn(
+    colours = c(&quot;dodgerblue4&quot;,&quot;light blue&quot;,&quot;firebrick&quot;,&quot;goldenrod&quot;)
+    ) +
   transition_states(Age, 1, 1) + 
   labs(title = &quot;Age: {closest_state}&quot;)
 
 # This last part is just to control the output in this blog, which was rendering the gif too slow by default
 animate(t, fps = 10) </code></pre>
-<p><img src="/blog/2018-10-01-get-the-brain-animated_files/figure-html/featured-1.gif" /><!-- --></p>
+<p><img src="blog/2018-10-01-get-the-brain-animated_files/figure-html/featured-1.gif" /></p>
 <p>and there you go! A pretty animation of the data! To understand the arguments to gganimate, I guess the best way to get a feel for it is to just play around with it. Now, I have to admit, that I am a little frustrated by the the gif is shown here on the blog, as in the RStudio viewer it looks awesome, with nice smooth transitions between states (here: Ages), but it is rendered here with very stacatto transitions.</p>
 <p>I’m giving up a little fixing this issue for now, and hope I’ll manage a better integration of gifs on the blog in the future.</p>
 <p>Happy plotting!</p>
+<p><em>Edit: This post was edited May 1st 2020 to reflect newer package changes</em></p>
